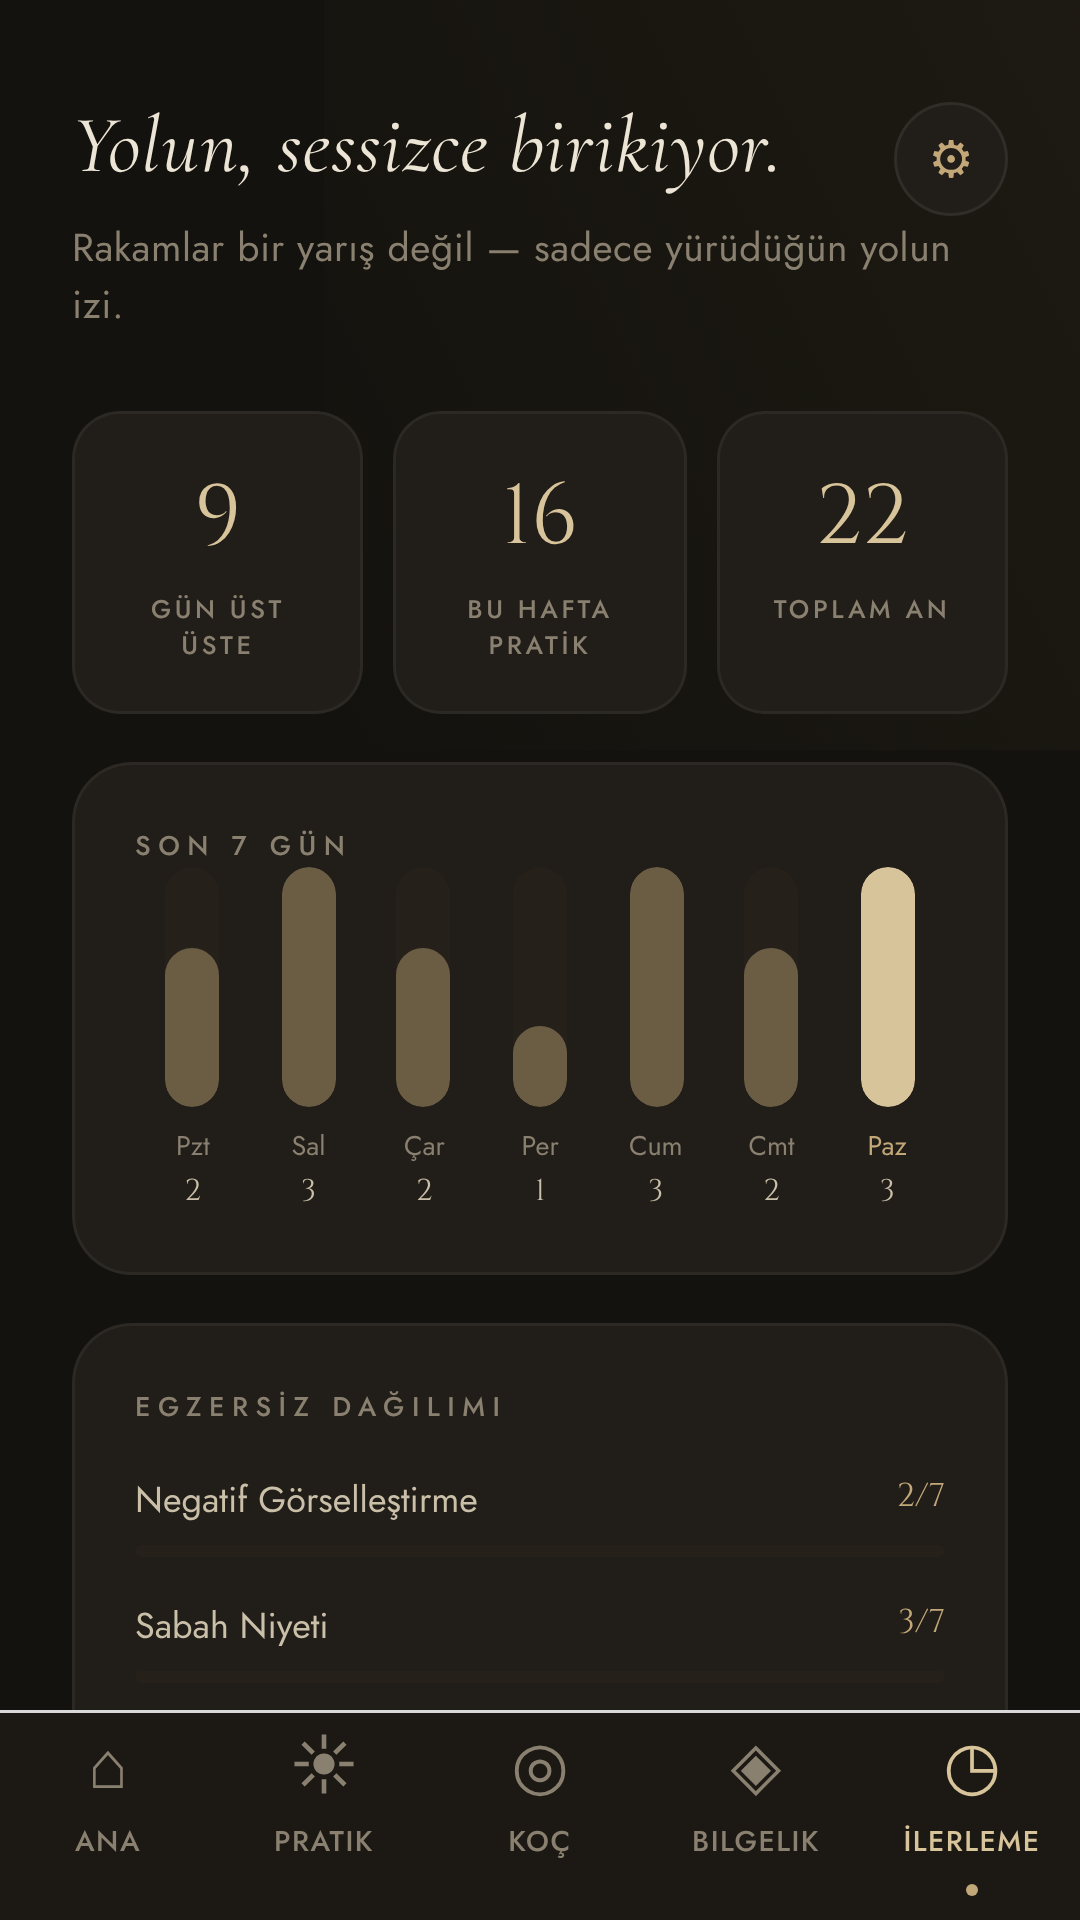
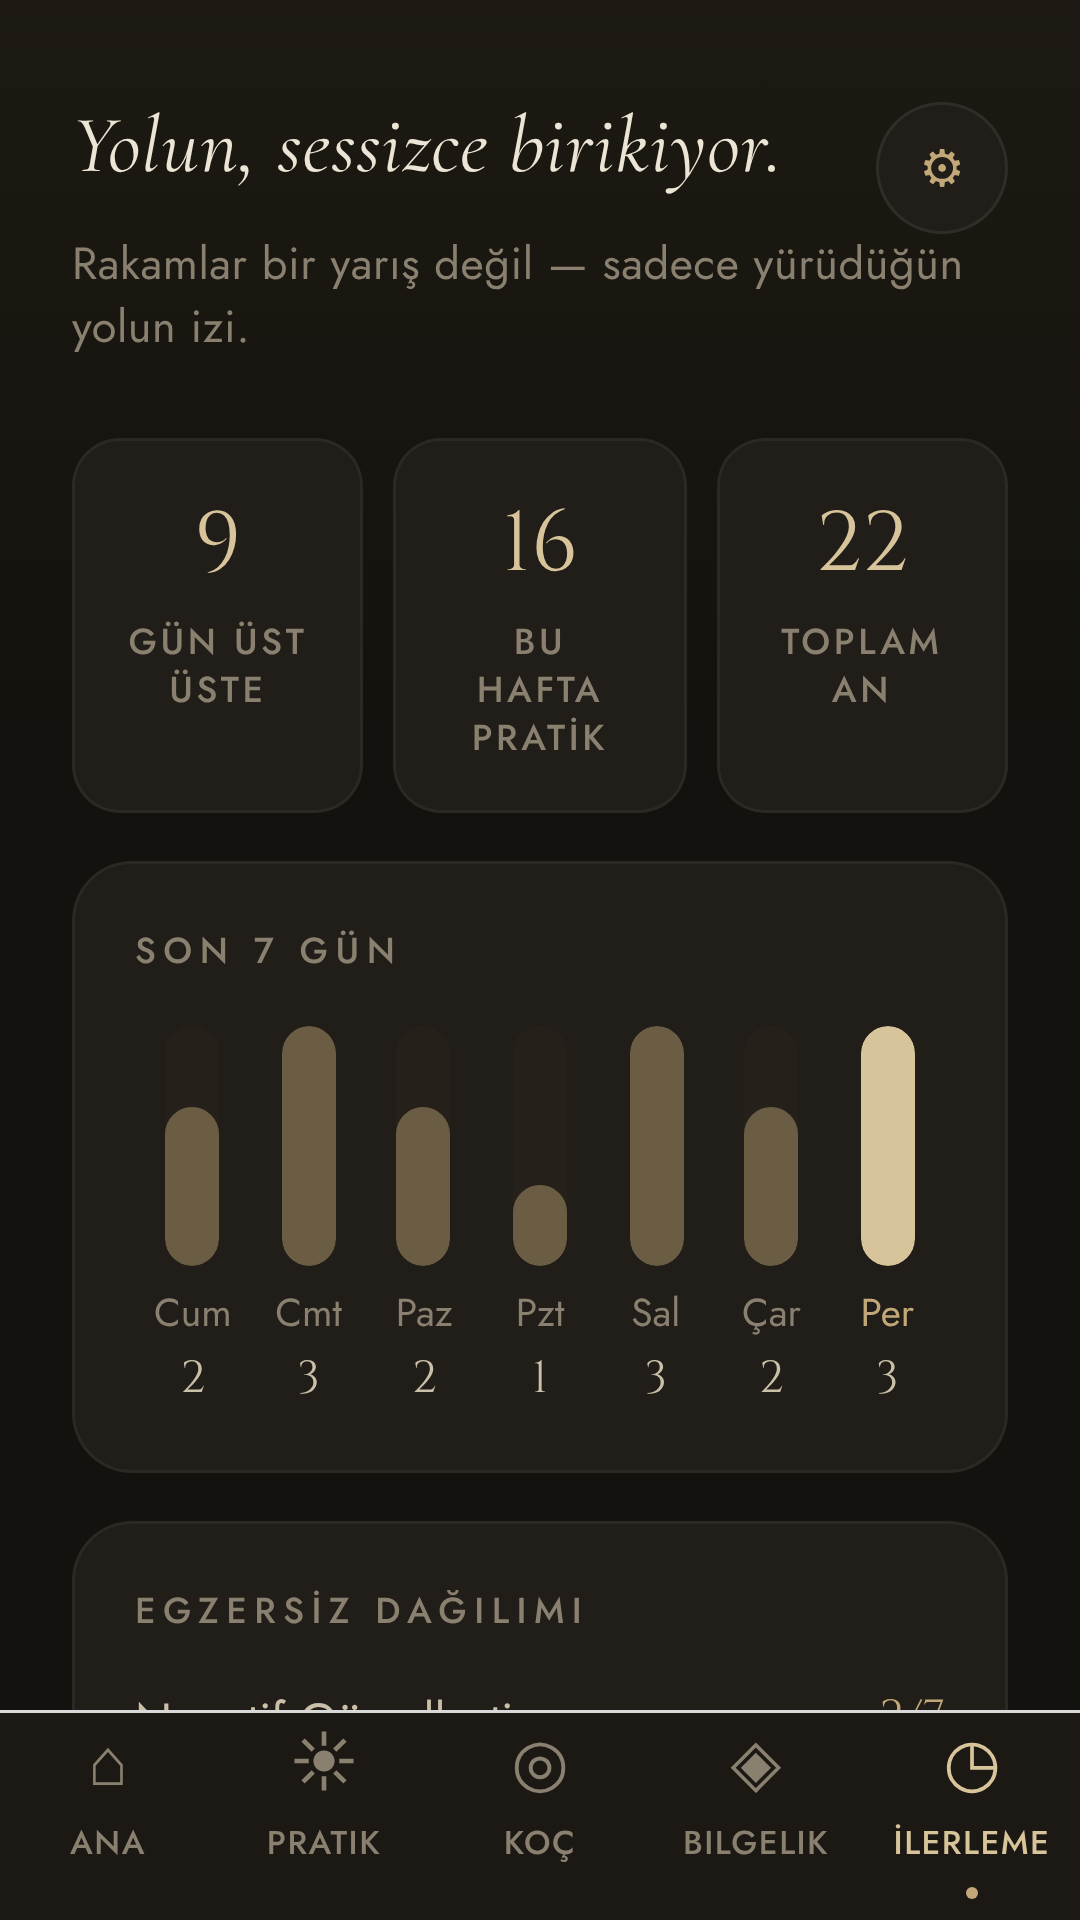
Mağaza ekran görüntüleri yeniden çekildi
Yeni Ana ekran (kaldığın yer, duygu çipleri), katlanan Bilgelik başlığı,
kısalan Pratik ve büyütülen yazılarla iPhone (1290×2796, 7 ekran) ve
Android (1080×1920, 5 ekran) görüntüleri; sitedeki telefon çerçeveleri de
güncellendi. Koç örnek sohbetindeki alıntıya uyarlama ibaresi eklendi.

Claude-Session: https://claude.ai/code/session_01HjT8wZmLW9eAuP1V4jzyXX

diff --git a/scripts/shoot-store.js b/scripts/shoot-store.js
@@ -15,7 +15,7 @@ const CHAT = [
   { id: '0', role: 'assistant', content: 'Buradayım. Bugün seni ne meşgul ediyor?', timestamp: '2026-09-05T09:12:00.000Z' },
   { id: '1', role: 'user', content: 'Yarın sunum var ve gece boyunca uyuyamadım. Sürekli ters gidebilecek şeyleri düşünüyorum.', timestamp: '2026-09-05T09:12:30.000Z' },
   { id: '2', role: 'assistant',
-    content: 'Zihnin yarını bu gece yaşamaya çalışıyor — ve o savaşı hep kaybediyor, çünkü yarın henüz yok.\n\nSunumun nasıl geçeceği tümüyle senin elinde değil. Ama hazırlığın, sesinin tonu, bir soruya "bilmiyorum, bakıp döneyim" diyebilme dürüstlüğün — bunlar senin. Stoacılar buna kontrol ikilemi diyor: enerjiyi elinde olana ver, olmayanı bırak.\n\n> "İnsanları rahatsız eden şeyler değil, şeyler hakkındaki düşünceleridir." — Epiktetos, Encheiridion\n\nBu gece için tek bir iş kaldı: uyumak. Sunum yarının işi.',
+    content: 'Zihnin yarını bu gece yaşamaya çalışıyor — ve o savaşı hep kaybediyor, çünkü yarın henüz yok.\n\nSunumun nasıl geçeceği tümüyle senin elinde değil. Ama hazırlığın, sesinin tonu, bir soruya "bilmiyorum, bakıp döneyim" diyebilme dürüstlüğün — bunlar senin. Stoacılar buna kontrol ikilemi diyor: enerjiyi elinde olana ver, olmayanı bırak.\n\n> "İnsanları rahatsız eden şeyler değil, şeyler hakkındaki düşünceleridir." — Epiktetos, Encheiridion · serbest uyarlama\n\nBu gece için tek bir iş kaldı: uyumak. Sunum yarının işi.',
     timestamp: '2026-09-05T09:13:10.000Z' },
 ];
 

diff --git a/CLAUDE.md b/CLAUDE.md
@@ -16,7 +16,7 @@
     - **Atmosfer fotoğrafları (3 yuva, Ekim 2026'da dolduruldu)**: `hero` = Sounion Poseidon Tapınağı gün batımı (yatayda **aynalandı**), `story` = mermer filozof büstü, `quote` = sisli deniz ufku. **Üçü de Unsplash'ten, ücretsiz** (Unsplash Lisansı: ticari kullanım serbest, atıf zorunlu değil; Unsplash+ değil). `story` ve `quote` soğuk maviydi, palete göre **duotone** tonlandı: `convert in.jpg -colorspace Gray -sigmoidal-contrast … +level-colors "#0e0c09","#f0dcb0"`. Değiştirmek için dosyayı `website/img/` altına koy, sayfanın sonundaki `PHOTOS` nesnesine yaz; yuva boşsa CSS degradesi görünür.
       ⚠ iStock/Shutterstock/Getty görselleri (filigranlı) **kullanılamaz** — kullanıcı bir kez iStock önizlemesi gönderdi. Bu ortam Unsplash/Pexels'e erişemiyor; kullanıcı indirip gönderiyor.
       ⚠ `.hero .photo` için `z-index:-2` şart: z-index'siz mutlak öğe konumlandırılmamış `.wrap`'in üstüne çizilip giriş yazısını gizliyordu.
-    - Ekran görüntüleri TR; 18 Ekim 2026'da yeniden çekildi (nefes çiçeği, yeni işaret, 5 program). Ekran değişince `scripts/shoot-store.js` + webp dönüşümü (`store-assets/README.md`).
+    - Ekran görüntüleri TR; 22 Ekim 2026'da yeniden çekildi (yeni Ana ekran: kaldığın yer + duygu çipleri; katlanan Bilgelik başlığı; kısalan Pratik; büyütülen yazılar; Jost yazı tipi). Ekran değişince `scripts/shoot-store.js` + webp dönüşümü (`store-assets/README.md`).
     - Telefon çerçevesi CSS; ekran görüntülerinde durum çubuğu olmadığı için JS bir "9:41" çubuğu ekliyor ve ekran onun altında başlıyor (`.phone .screen{padding-top}` — yüzde, **genişliğe** göre hesaplanır).
   - `/app/` → Expo web uygulaması (test edenler bunu kullanıyor)
   - `/gizlilik.html`, `/privacy.html`, `/terms.html`, `/terms-en.html` → yasal sayfalar (Apple'a verilecek adresler)
